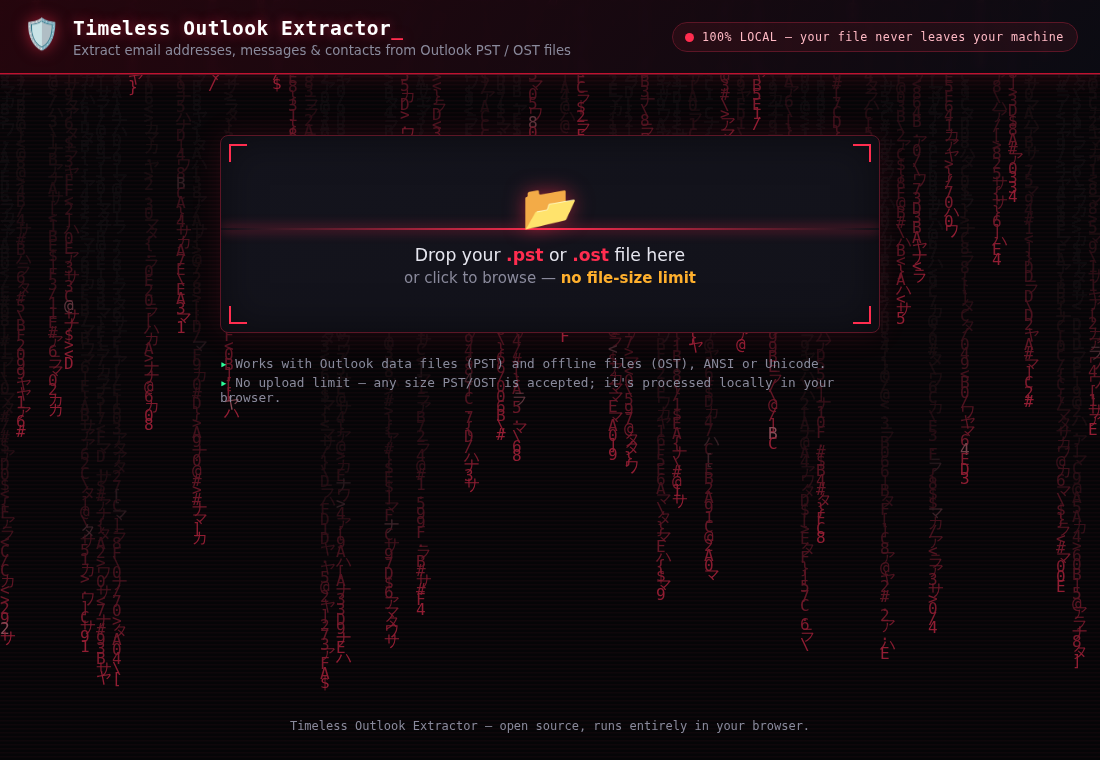
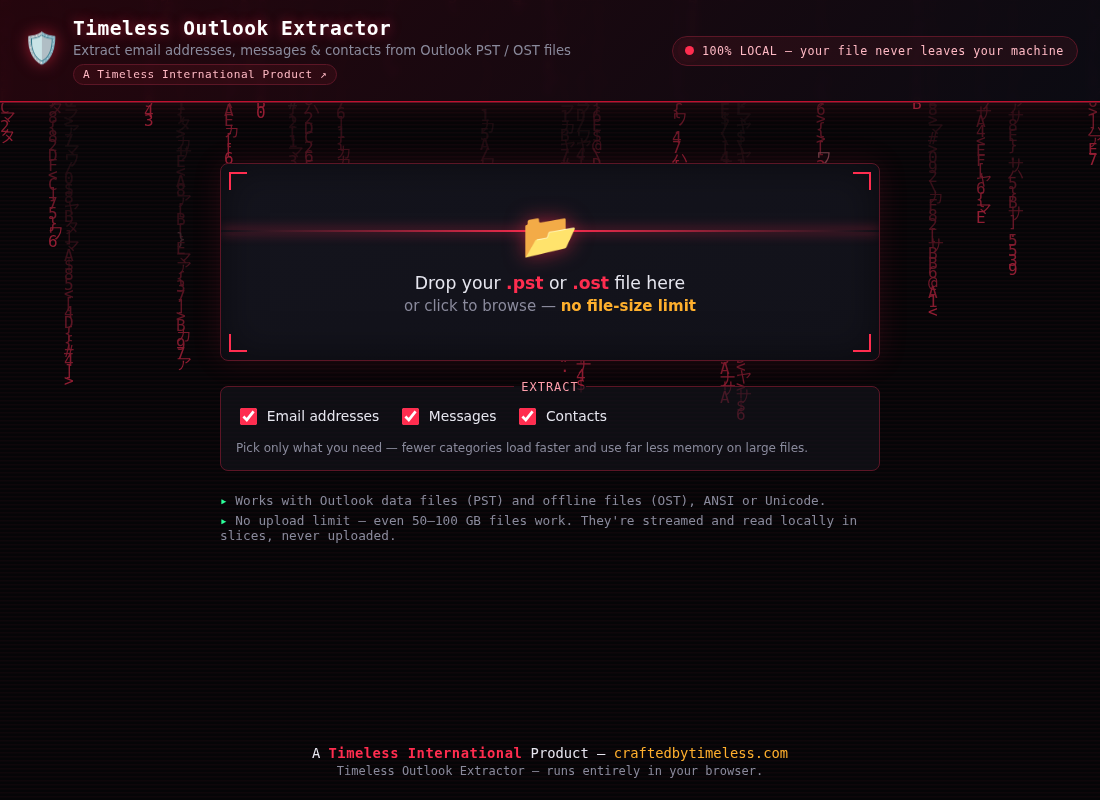
Add 'A Timeless International Product' branding with site link
Show the attribution in two visible spots — a pill badge under the
header title and a prominent footer line — both linking to
https://www.craftedbytimeless.com (opens in a new tab).

https://claude.ai/code/session_01Y9W2rv7qPwsD4ZNauQBTHR

diff --git a/src/styles.css b/src/styles.css
@@ -92,6 +92,21 @@ main { flex: 1; width: 100%; max-width: 1200px; margin: 0 auto; padding: 1rem 1.
 .caret { color: var(--red); animation: blink 1s steps(1) infinite; }
 @keyframes blink { 50% { opacity: 0; } }
 .tagline { margin: 0.2rem 0 0; color: var(--muted); font-size: 0.88rem; }
+.brand-badge {
+  display: inline-block;
+  margin-top: 0.45rem;
+  padding: 0.2rem 0.6rem;
+  border: 1px solid var(--border-red);
+  border-radius: 999px;
+  background: rgba(255, 45, 79, 0.08);
+  color: #ffb9c4;
+  font-family: 'Consolas', ui-monospace, monospace;
+  font-size: 0.74rem;
+  letter-spacing: 0.5px;
+  text-decoration: none;
+  transition: box-shadow 0.15s, color 0.15s;
+}
+.brand-badge:hover { color: #fff; box-shadow: 0 0 12px var(--red-glow); border-color: var(--red); }
 
 .privacy-badge {
   display: flex;
@@ -373,6 +388,11 @@ td.ellipsis { max-width: 320px; overflow: hidden; text-overflow: ellipsis; white
 }
 #viewer-body-html { width: 100%; height: 60vh; border: none; background: #fff; }
 
-footer { text-align: center; color: var(--muted); font-size: 0.8rem; padding: 1rem; font-family: 'Consolas', ui-monospace, monospace; }
+footer { text-align: center; color: var(--muted); font-size: 0.8rem; padding: 1.25rem 1rem; font-family: 'Consolas', ui-monospace, monospace; }
+footer p { margin: 0.2rem 0; }
+.brand-line { font-size: 0.92rem; color: var(--text); }
+.brand-line strong { color: var(--red); letter-spacing: 0.5px; }
+.brand-line a { color: var(--amber); text-decoration: none; }
+.brand-line a:hover { text-decoration: underline; text-shadow: 0 0 8px rgba(255, 176, 45, 0.5); }
 
 [hidden] { display: none !important; }

diff --git a/index.html b/index.html
@@ -17,6 +17,7 @@
       <div>
         <h1>Timeless Outlook Extractor<span class="caret">_</span></h1>
         <p class="tagline">Extract email addresses, messages &amp; contacts from Outlook PST / OST files</p>
+        <a class="brand-badge" href="https://www.craftedbytimeless.com" target="_blank" rel="noopener noreferrer">A Timeless International Product ↗</a>
       </div>
     </div>
     <div class="privacy-badge" title="The file is parsed by JavaScript running in this page. Nothing is uploaded.">
@@ -155,7 +156,11 @@
   </div>
 
   <footer>
-    <p>Timeless Outlook Extractor — open source, runs entirely in your browser.</p>
+    <p class="brand-line">
+      A <strong>Timeless International</strong> Product —
+      <a href="https://www.craftedbytimeless.com" target="_blank" rel="noopener noreferrer">craftedbytimeless.com</a>
+    </p>
+    <p>Timeless Outlook Extractor — runs entirely in your browser.</p>
   </footer>
 
   <script type="module" src="/src/main.js"></script>
